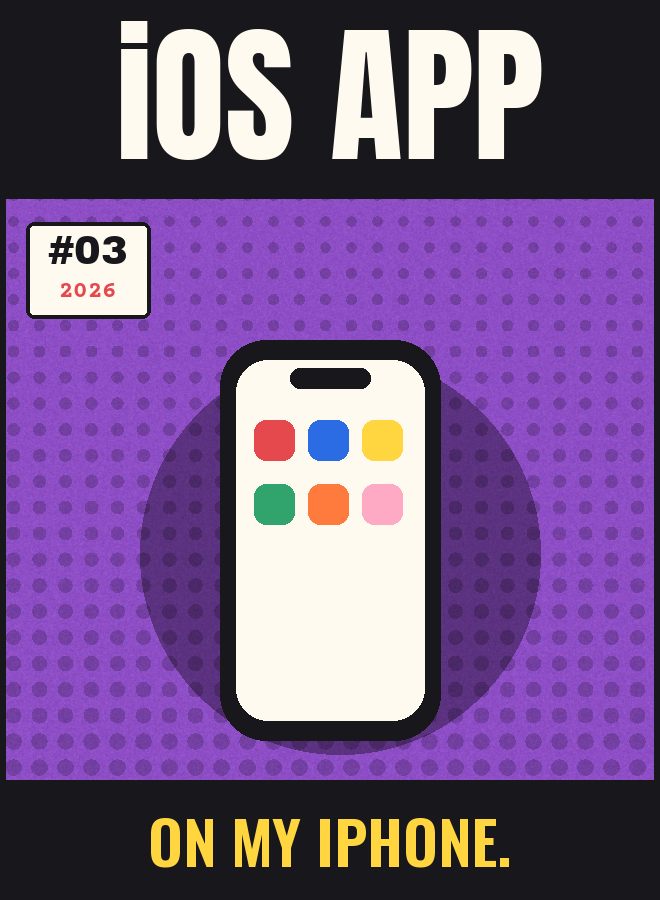
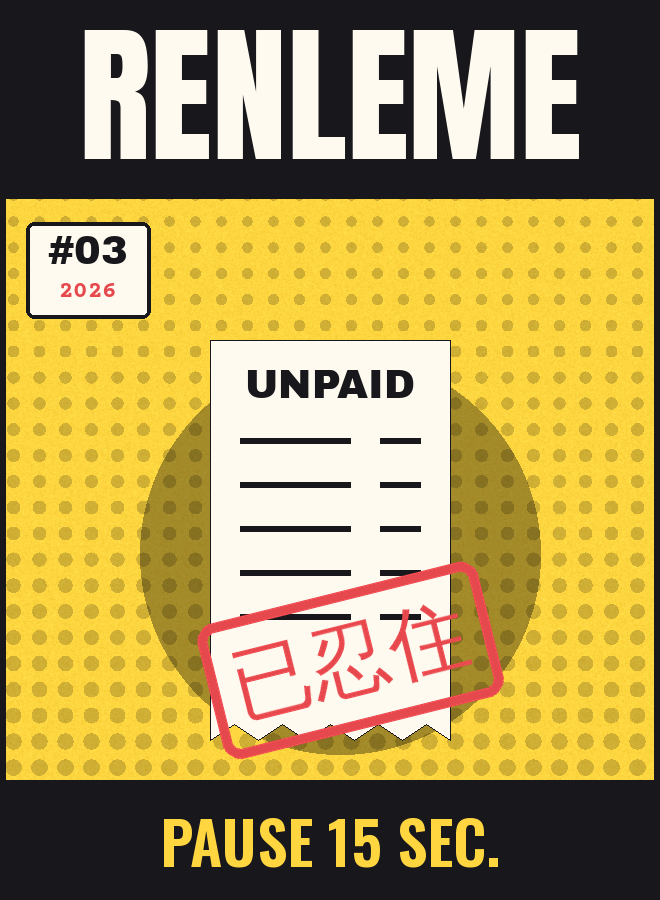
Fill in the three project panels
PitMind (F1 AI companion), What If That Apple (AI animated short) and
RenLeMe (impulse-pause iOS app), in Chinese and English, with new zine
covers, hotspot labels, NOW note and chat answer.

Claude-Session: https://claude.ai/code/session_019ggxabgDhCYUh62LeLnHLD

diff --git a/site/js/content.js b/site/js/content.js
@@ -1,4 +1,4 @@
-// 全站文案（中英）。改内容只改这里；标了 TODO 的是占位。
+// 全站文案（中英）。改内容只改这里。
 // 面板可选字段：image { src, alt }（配图）、sections [{ heading, items }]（带小标题的分组要点）。
 
 export const LANGS = ['zh', 'en'];
@@ -52,10 +52,10 @@ export const LABELS = {
   monitor: { zh: '跟我聊聊', en: 'Talk to me' },
   keyboard: { zh: '点键盘，跟我聊', en: 'Click the keyboard. Talk to me.' },
   mask: { zh: '换一个宇宙', en: 'Switch universe' },
-  'zine-1': { zh: 'F1 网站', en: 'F1 website' },
-  phone: { zh: 'iOS App', en: 'iOS app' },
-  'zine-2': { zh: 'AIGC 短片', en: 'AIGC short film' },
-  'zine-3': { zh: 'iOS App', en: 'iOS app' },
+  'zine-1': { zh: 'PitMind · F1 AI 搭子', en: 'PitMind · F1 AI companion' },
+  phone: { zh: '忍了么 · iOS App', en: 'RenLeMe · iOS app' },
+  'zine-2': { zh: '《假如那颗苹果》· AI 短片', en: 'What If That Apple · AI short' },
+  'zine-3': { zh: '忍了么 · iOS App', en: 'RenLeMe · iOS app' },
   notebook: { zh: '博客', en: 'Blog' },
   plant: { zh: '兴趣爱好', en: 'Interests' },
   badge: { zh: '实习 / 工作', en: 'Work' },
@@ -75,17 +75,6 @@ export const LABELS = {
 };
 
 const L = (zh, en) => ({ zh, en });
-
-// TODO：以下面板都是占位，换成你自己的内容。每段文字都要写中英两版。
-const project = (n, zh, en, subZh, subEn) => ({
-  kicker: L(`项目 · 0${n}`, `PROJECT · 0${n}`),
-  title: L(zh, en),
-  sub: L(subZh, subEn),
-  body: L(['TODO：这个项目是什么、为什么做、做到了哪一步。'], ['TODO: what it is, why I made it, and where it stands.']),
-  bullets: L([], []),
-  tags: [],
-  links: [],
-});
 
 export const PANELS = {
   about: {
@@ -140,9 +129,81 @@ export const PANELS = {
     tags: [],
     links: [{ label: L('游戏', 'Games'), action: 'games' }, { label: L('赛车', 'Racing'), action: 'cars' }, { label: L('电影', 'Films'), action: 'movies' }],
   },
-  project1: project(1, 'F1 网站', 'F1 website', '还没发布', 'Not launched yet'),
-  project2: project(2, 'AIGC 短片', 'AIGC short film', '用生成式 AI 做的短片', 'A short film made with generative AI'),
-  project3: project(3, 'iOS App', 'iOS app', '一个 iPhone 应用', 'An iPhone app'),
+  project1: {
+    kicker: L('项目 · 01', 'PROJECT · 01'),
+    title: L('PitMind', 'PitMind'),
+    sub: L('给 F1 新球迷的 AI 观赛搭子', 'An AI race companion for new F1 fans'),
+    body: L(
+      ['PitMind 是一个面向 F1 新手和轻度球迷的 AI 助手，按场景来回答问题：赛前准备、比赛中的实时解释、赛后复盘，还有术语、赛程、车手车队资料、积分榜和赛季背景。', '它把稳定的知识、结构化的比赛数据和受控的大模型编排分开管理，目标是让 F1 更容易看懂。'],
+      ['PitMind is a scenario-first AI assistant for beginner and casual Formula 1 fans. It covers pre-race prep, live explanations, post-race reviews, terminology, schedules, profiles, standings and season context.', 'It keeps governed knowledge, structured race data and controlled LLM orchestration separate, all to make F1 easier to follow.'],
+    ),
+    bullets: L(
+      ['覆盖 9 类核心能力，中英双语，有统一对话、Race Hub 和管理后台', '意图基准 intent_benchmark_v2：28/28 通过', 'MVP 评测 8/8 场景通过，意图、路由、内容、结构四项都是 100%', '状态：开发中，完整的全栈产品已经能在本地跑起来'],
+      ['Nine core capability families, in English and Chinese, with Unified Chat, Race Hub and an admin dashboard', 'intent_benchmark_v2: 28/28 cases passed', 'MVP eval: 8/8 scenarios, 100% on intent, routing, content and structure', 'Status: in development; the full stack runs locally'],
+    ),
+    sections: [
+      {
+        heading: L('我做了什么', 'What I did'),
+        items: L(
+          ['设计并实现了端到端的 Agent 流程：问题识别、意图分类、工具规划、数据检索、回答校验和结构化输出', '搭了 F1 知识和证据体系，把稳定知识、比赛数据、网络兜底和大模型生成的表达分开', '做了带版本的提示词管理、回答改写，以及按喜欢的车手、车队和观赛偏好的个性化', '建了评测和质量门禁，覆盖意图准确率、路由、内容、结构、错误率和运行时延迟'],
+          ['Designed and built the end-to-end agent flow: query recognition, intent classification, tool planning, retrieval, answer validation and structured output', 'Built the F1 knowledge and evidence architecture, separating stable knowledge, race data, web fallback and LLM-written presentation', 'Added versioned prompt management, answer rewriting and personalisation by favourite driver, team and viewing priorities', 'Created an eval and quality-gate system for intent accuracy, routing, content, structure, error rate and latency'],
+        ),
+      },
+    ],
+    tags: ['Next.js', 'FastAPI', 'RAG', 'Agent', 'OpenF1', 'Evals'],
+    links: [],
+  },
+  project2: {
+    kicker: L('项目 · 02', 'PROJECT · 02'),
+    title: L('《假如那颗苹果》', 'What If That Apple'),
+    sub: L('假如那颗苹果没砸中牛顿？', 'What if the apple had missed Newton?'),
+    body: L(
+      ['一部用 AI 生成的成人向黑色幽默动画短片。一个叫 WhatIf 的历史模拟 App 反复重跑同一个问题：1666 年那颗苹果要是没砸中牛顿会怎样？每次都去掉上一次的意外，苹果却总被新的东西截住，世界接连分出五条荒诞的时间线：飞天马车、炼金术、鸟类文明、美食帝国……结尾揭晓，那颗苹果是被人故意放上去的。', '风格参考《爱，死亡和机器人》的「另类历史」：旁白讲因果，画面负责笑点，角色只表演、不说能听懂的语言。'],
+      ['An AI-generated dark-comedy animated short for adults. A history-simulation app called WhatIf keeps re-running one question: what if the apple in 1666 never hit Newton? Each run removes the last accident, yet the apple is always intercepted by something new, and the world spins into five absurd timelines: flying wagons, alchemy, a bird civilisation, a gourmet empire and more. The ending reveals the apple was planted on purpose.', 'The style nods to the “Alternate Histories” episode of Love, Death & Robots: narration carries cause and effect, the visuals carry the jokes, and the characters perform without speaking any recognisable language.'],
+    ),
+    bullets: L(
+      ['粗剪到第 8 版，时长约 7 分 11 秒', '开场和高潮重做成多镜头长镜头，用逐秒的锚点图控制关键动作，转场顺了很多', '状态：制作中（粗剪阶段，旁白和配音还没录）'],
+      ['Rough cut v8, about 7 min 11 s', 'Rebuilt the opening and the climax as multi-shot long takes, with per-second anchor frames for key actions, which smoothed the transitions', 'Status: in progress (rough cut; narration and voices not yet recorded)'],
+    ),
+    sections: [
+      {
+        heading: L('我做了什么', 'What I did'),
+        items: L(
+          ['构思故事和层层叠加的五分支结构，定下风格规则：角色不说人话、画面文字只出现在 App 界面里、结尾两句反转不改', '担任导演，在 LibTV 上用 Seedance 2.5 生成全部镜头；用图像模型做角色设定图、关键帧和动作锚点图，逐个镜头审片、给修改意见', '和 Claude 一起迭代剧本、分镜、生成提示词，检查连续性，出粗剪；决定哪些关键段落重拍，比如把开场重做成 16 秒的多镜头长镜头、把第五分支的高潮重做成 20 秒', '站在观众角度反复看片，抓突兀的转场和穿帮，推动了 8 版粗剪'],
+          ['Wrote the story and its cumulative five-branch structure, and set the rules: wordless characters, on-screen text only in the app UI, and an unchanged two-line twist at the end', 'Directed the film and generated every shot with Seedance 2.5 on LibTV; used an image model for character sheets, key frames and action anchor frames, and reviewed every shot with revision notes', 'Worked with Claude on script and storyboard iterations, generation prompts, continuity checks and the rough cut; chose which sequences to reshoot, such as a 16-second multi-shot opening and a 20-second climax for branch five', 'Re-watched as an audience member to catch abrupt cuts and continuity errors, driving eight rough-cut versions'],
+        ),
+      },
+    ],
+    tags: ['Seedance 2.5', 'LibTV', 'Claude', 'Python', 'ffmpeg', 'CapCut'],
+    links: [],
+  },
+  project3: {
+    kicker: L('项目 · 03', 'PROJECT · 03'),
+    title: L('忍了么', 'RenLeMe'),
+    sub: L('想买、想吃、想刷的时候，先停 15 秒', 'When the urge hits, pause for 15 seconds'),
+    body: L(
+      ['一个 iOS App，给那些想买点什么、想吃点什么、想接着刷手机打游戏的时刻用。点一下，一张「待付款小票」会随着一下下的震动逐行打印出来。15 秒后你来决定：忍住、放进冷静箱以后再说，还是照买不误。', '不评判，不锁机；省下的钱、热量和时间会累积成看得见的目标。'],
+      ['An iOS app for the moments you want to buy something, eat something, or keep scrolling and gaming. Tap once, and an “unpaid receipt” prints out line by line with each haptic tick. After 15 seconds you decide: resist, put it in the cooldown box for later, or go ahead anyway.', 'No judgement, no lockouts; the money, calories and minutes you hold back add up toward goals you can see.'],
+    ),
+    bullets: L(
+      ['2026 年 10 月通过审核，已在 App Store 上架', '96 件日常物品、88 种食物的参考热量表、12 枚怪印章；App 加小组件约 1.9 万行代码', '不用注册，没有广告，没有服务器：数据只在你的手机和你自己的 iCloud 里'],
+      ['Approved and live on the App Store (October 2026)', '96 everyday items, a reference calorie table of 88 foods, 12 odd stamps; about 19k lines of code across the app and widgets', 'No sign-up, no ads, no servers: data stays on your phone and your own iCloud'],
+    ),
+    sections: [
+      {
+        heading: L('我做了什么', 'What I did'),
+        items: L(
+          ['一个人从想法做到上架：定方向，设计「停一下 → 做决定 → 回头看」的流程、冷静箱和集章目标', '发现大家用几次就不打开了，于是重做了回来的理由：周日晚上签收一张「没花出去的账单」、一周后回访「还想要吗」、按行为解锁的怪印章，以及没忍住之后的「再来一次」券', '换掉早期的方向，定下「一桌纸」的视觉语言（黄桌面、白小票、红印章、拼贴剪纸），用 GPT ImageGen 生成了 96 张物品剪纸，重画了 App 图标', '用 AI 编程工具开发，我负责拆解、决策和审查；按苹果的素材规范做了商店截图、预览视频和头图'],
+          ['Took it from idea to App Store on my own: set the direction and designed the pause → decide → look-back flow, the cooldown box and stamp-card goals', 'Noticed people stopped opening it after a few uses, so I reworked the reasons to come back: a Sunday-night “unsold bill” to sign, a one-week “still want it?” check-in, odd stamps earned by behaviour, and a “second chance” coupon after a slip', 'Dropped an earlier direction for a “desk of paper” look (yellow desk, white receipts, red stamps, collage cut-outs); generated 96 item cut-outs with GPT ImageGen and redrew the icon', 'Built it with AI coding tools while owning the breakdown, decisions and review; made the store screenshots, preview video and header to Apple’s asset guidelines'],
+        ),
+      },
+    ],
+    tags: ['SwiftUI', 'SwiftData', 'WidgetKit', 'Live Activity', 'App Intents', 'Codex', 'Claude Code'],
+    links: [
+      { label: L('在 App Store 下载', 'Get it on the App Store'), href: 'https://apps.apple.com/app/id6814845346' },
+      { label: L('帮助与隐私', 'Help & privacy'), href: 'https://renleme.netlify.app' },
+    ],
+  },
   games: {
     kicker: L('PRESS START', 'PRESS START'),
     title: L('我喜欢的游戏', 'Games I love'),
@@ -162,7 +223,7 @@ export const PANELS = {
     body: L(['我开一台 2026 款保时捷帕拉梅拉，火山灰色。桌上那台 1:24 车模是银色的 911 GT3 Touring，我最喜欢的跑车。F1 里最喜欢的车手是维斯塔潘：杆位起步，一路领跑到终点。'], ['I drive a 2026 Porsche Panamera in Volcano Grey. The 1:24 model on the desk is a silver 911 GT3 Touring, my favourite sports car. My favourite F1 driver is Max Verstappen: pole to win.']),
     bullets: L(['我的车：2026 款保时捷帕拉梅拉 · 火山灰', '最喜欢的跑车：保时捷 911 · 银色', '最喜欢的车手：Max Verstappen'], ['My car: 2026 Porsche Panamera, Volcano Grey', 'Favourite sports car: Porsche 911, silver', 'Favourite driver: Max Verstappen']),
     tags: ['Porsche', 'F1'],
-    links: [{ label: L('F1 网站', 'F1 website'), action: 'project1' }],
+    links: [{ label: L('PitMind：F1 AI 搭子', 'PitMind: F1 AI companion'), action: 'project1' }],
   },
   review: {
     kicker: L('YEAR IN REVIEW', 'YEAR IN REVIEW'),
@@ -223,7 +284,7 @@ export const PANELS = {
     title: L('最近在做什么', 'What I am up to now'),
     sub: L('2026 年 10 月', 'October 2026'),
     body: L([], []),
-    bullets: L(['在做：腾讯 AI 产品经理', '在搭：这个网站和一个 F1 网站', '在等：小布到家'], ['Doing: AI product manager at Tencent', 'Building: this site and an F1 website', 'Waiting for: Xiaobu to move in']),
+    bullets: L(['在做：腾讯 AI 产品经理', '在搭：PitMind 和 AI 短片《假如那颗苹果》', '在等：小布到家'], ['Doing: AI product manager at Tencent', 'Building: PitMind and the AI short What If That Apple', 'Waiting for: Xiaobu to move in']),
     tags: [],
     links: [],
   },
@@ -295,7 +356,7 @@ export const CHAT = {
   fallback: L('这个我没准备台词。试试问：你是谁、做过什么项目、怎么联系你。', 'I don’t have a line for that. Try: who are you, what have you built, how to reach you.'),
   topics: [
     { id: 'who', keys: ['你是谁', '介绍', 'who', 'about', 'yourself', 'simon'], q: L('你是谁？', 'Who are you?'), a: L('我是 Simon，许子豪，在腾讯做 AI 产品经理。之前在字节跳动做 AgentCall 和 LLM 评测，在 Soul 做策略产品。工作之外是赛车迷和游戏玩家。', 'I’m Simon Xu, an AI product manager at Tencent. Before that I worked on AgentCall and LLM evaluation at ByteDance and on strategy products at Soul. Outside work: racing fan and gamer.'), panel: 'about' },
-    { id: 'projects', keys: ['项目', '做过', 'project', 'build', 'built'], q: L('你做过什么项目？', 'What have you built?'), a: L('三个：一个还没发布的 F1 网站、一部 AIGC 短片和一个 iOS App。桌上的三本刊物就是它们。', 'Three: an F1 website that hasn’t launched yet, an AIGC short film and an iOS app. They’re the three zines on the desk.'), panel: 'project1' },
+    { id: 'projects', keys: ['项目', '做过', 'project', 'build', 'built'], q: L('你做过什么项目？', 'What have you built?'), a: L('三个：给 F1 新球迷的 AI 搭子 PitMind（开发中）、AI 动画短片《假如那颗苹果》（粗剪中），和已经上架 App Store 的冲动刹车 App「忍了么」。桌上的三本刊物就是它们。', 'Three: PitMind, an AI race companion for new F1 fans (in development); What If That Apple, an AI-made animated short (rough cut); and RenLeMe, an impulse-pause app that’s live on the App Store. They’re the three zines on the desk.'), panel: 'project1' },
     { id: 'styles', keys: ['风格', '宇宙', 'style', 'universe', 'blender', '怎么做'], q: L('为什么有十种画风？', 'Why ten styles?'), a: L('同一张桌子在 Blender 里建模，一个机位渲出底色、光影和轮廓，再合成十种印刷风格。点桌上的面具，或者按空格，就换一个宇宙。', 'One desk modelled in Blender, one camera, rendered into colour, light and outline passes, then composited into ten print styles. Click the mask on the desk, or press Space, to jump universes.') },
     { id: 'contact', keys: ['联系', '邮箱', 'email', 'contact', 'reach'], q: L('怎么联系你？', 'How do I reach you?'), a: L('发邮件到 xuzihao1218@126.com，或者点桌上的名片。', 'Email xuzihao1218@126.com, or click the business card on the desk.'), panel: 'contact' },
   ],

diff --git a/pipeline/textures.py b/pipeline/textures.py
@@ -526,6 +526,32 @@ def zine(title, issue, tagline, bg, accent, motif, w=660, h=900):
         for k in range(6):
             x0, y0 = cx - r * 0.38 + (k % 3) * r * 0.27, cy - r * 0.6 + (k // 3) * r * 0.32
             d.rounded_rectangle((x0, y0, x0 + r * 0.2, y0 + r * 0.2), radius=12, fill=[RED, BLUE, YELLOW, GREEN, ORANGE, PINK][k])
+    elif motif == "apple":   # 《假如那颗苹果》：一颗红苹果正往下掉，砸向一顶假发
+        d.ellipse((cx - r * 0.8, cy + r * 0.35, cx + r * 0.8, cy + r * 1.0), fill=PAPER, outline=INK, width=8)   # 牛顿的白卷发
+        for k in range(5):
+            x = cx - r * 0.6 + k * r * 0.3
+            d.ellipse((x - 34, cy + r * 0.28, x + 34, cy + r * 0.6), fill=PAPER, outline=INK, width=6)
+        ax, ay, ar = cx, cy - r * 0.3, r * 0.42
+        d.ellipse((ax - ar, ay - ar, ax + ar, ay + ar * 0.9), fill=RED, outline=INK, width=8)
+        d.ellipse((ax - ar * 0.55, ay - ar * 0.6, ax - ar * 0.2, ay - ar * 0.25), fill=(255, 150, 150))
+        d.line((ax, ay - ar * 0.8, ax + 12, ay - ar * 1.35), fill=INK, width=10)
+        d.ellipse((ax + 12, ay - ar * 1.45, ax + 80, ay - ar * 1.1), fill=GREEN, outline=INK, width=5)
+        for k in (-1, 0, 1):   # 下落的速度线
+            d.line((ax + k * 40, ay - ar * 1.9, ax + k * 40, ay - ar * 1.5), fill=INK, width=6)
+        d.text((cx, cy + r * 0.18), "1666", font=font("black", 40), fill=INK, anchor="mm")
+    elif motif == "receipt":   # 忍了么：一张待付款小票，盖着红色「已忍住」章
+        d.polygon([(cx - r * 0.6, cy - r), (cx + r * 0.6, cy - r)] + [(cx + r * 0.6 - k * r * 0.12, cy + r * (0.92 if k % 2 else 1.0)) for k in range(11)], fill=PAPER, outline=INK)
+        d.text((cx, cy - r * 0.78), "UNPAID", font=font("black", 40), fill=INK, anchor="mm")
+        for k in range(5):
+            y = cy - r * 0.5 + k * r * 0.22
+            d.line((cx - r * 0.45, y, cx + r * 0.1, y), fill=INK, width=6)
+            d.line((cx + r * 0.25, y, cx + r * 0.45, y), fill=INK, width=6)
+        st = Image.new("RGBA", (300, 150), (0, 0, 0, 0))
+        sd = ImageDraw.Draw(st)
+        sd.rounded_rectangle((6, 6, 294, 144), radius=18, outline=RED, width=10)
+        sd.text((150, 75), "已忍住", font=font("cjk", 80), fill=RED, anchor="mm")
+        st = st.rotate(14, expand=True, resample=Image.BICUBIC)
+        im.paste(st, (int(cx - st.width / 2 + 20), int(cy + r * 0.05)), st)
     elif motif == "notes":
         for i, c in enumerate(((255, 255, 255), (255, 244, 200), (255, 255, 255))):
             ox = (i - 1) * 46
@@ -727,9 +753,9 @@ def main(out):
         clipping(hl, sub, kind, 20 + i, text, h=820 if i % 2 == 0 else 760, image=image).save(out / f"clip_{i}.png")
     poster().save(out / "poster.png")
     # 桌上三本项目刊物（文件名不变，Blender 按文件名找贴图）
-    zine("F1 WEBSITE", 1, "COMING SOON.", (255, 122, 61), INK, "f1").save(out / "zine_echo.png")
-    zine("AIGC FILM", 2, "MADE WITH AI.", (88, 166, 255), RED, "film").save(out / "zine_roundtable.png")
-    zine("iOS APP", 3, "ON MY IPHONE.", (142, 78, 198), INK, "phone").save(out / "zine_athena.png")
+    zine("PITMIND", 1, "F1, EXPLAINED.", (255, 122, 61), INK, "f1").save(out / "zine_echo.png")
+    zine("WHAT IF?", 2, "THAT APPLE.", (88, 166, 255), RED, "apple").save(out / "zine_roundtable.png")
+    zine("RENLEME", 3, "PAUSE 15 SEC.", (255, 214, 64), INK, "receipt").save(out / "zine_athena.png")
     notebook().save(out / "notebook.png")
     screen().save(out / "screen.png")
     small_papers(out)
